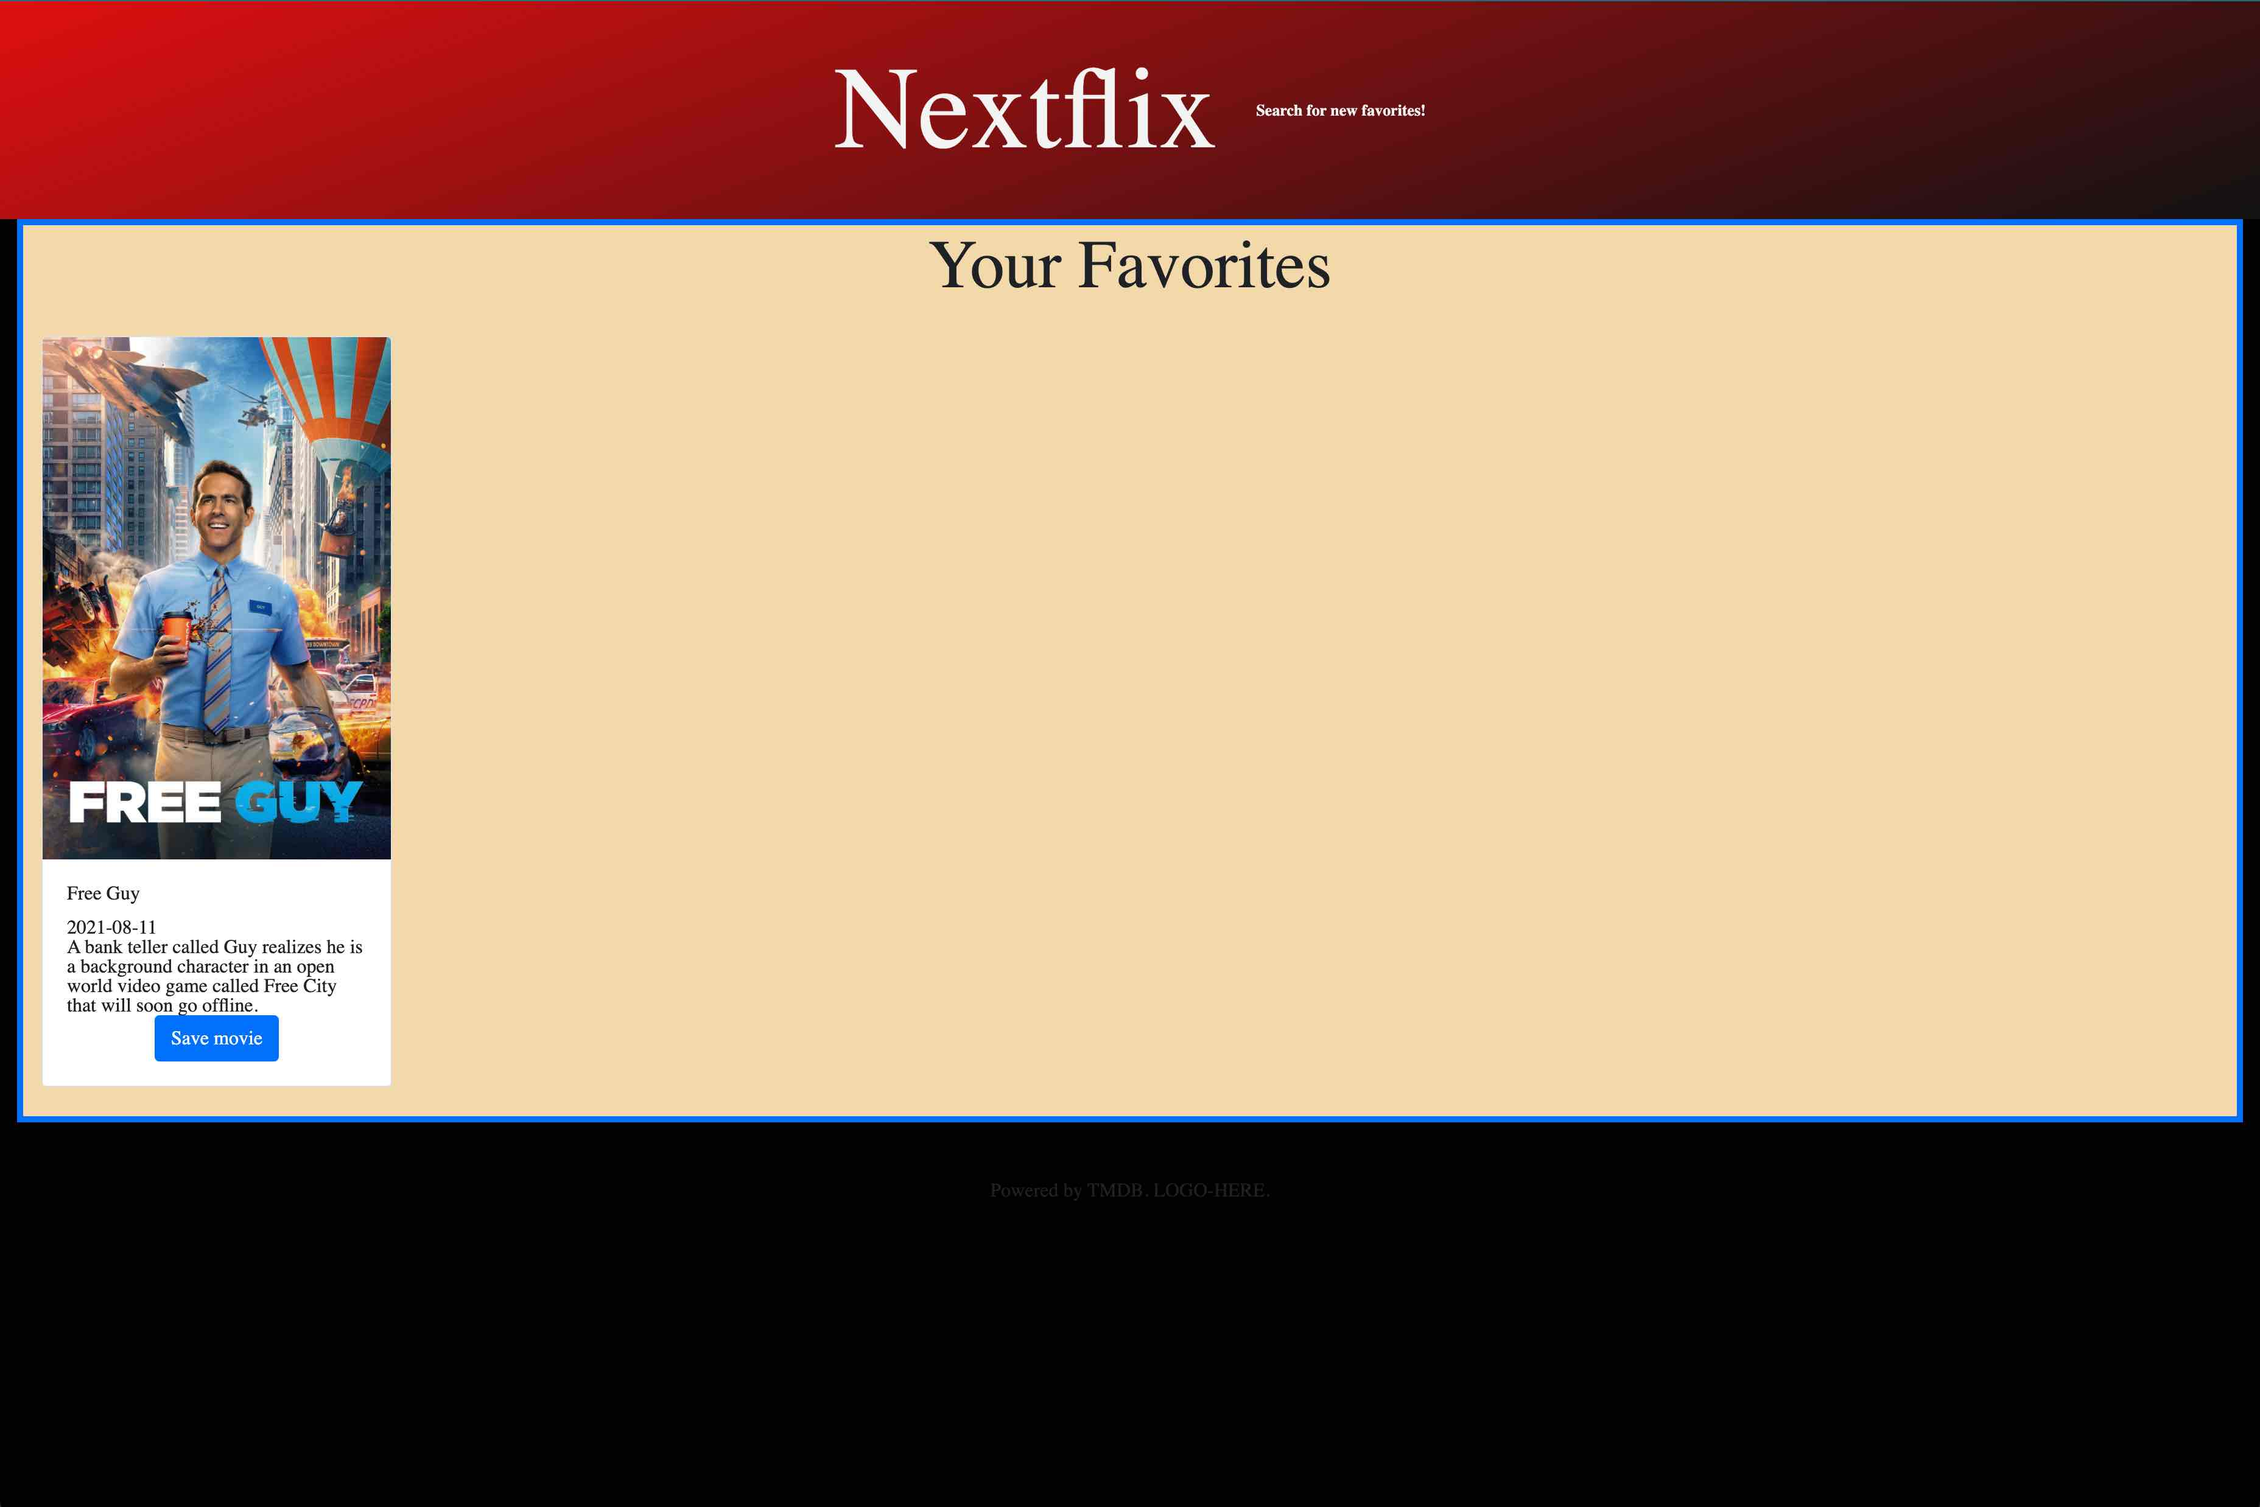
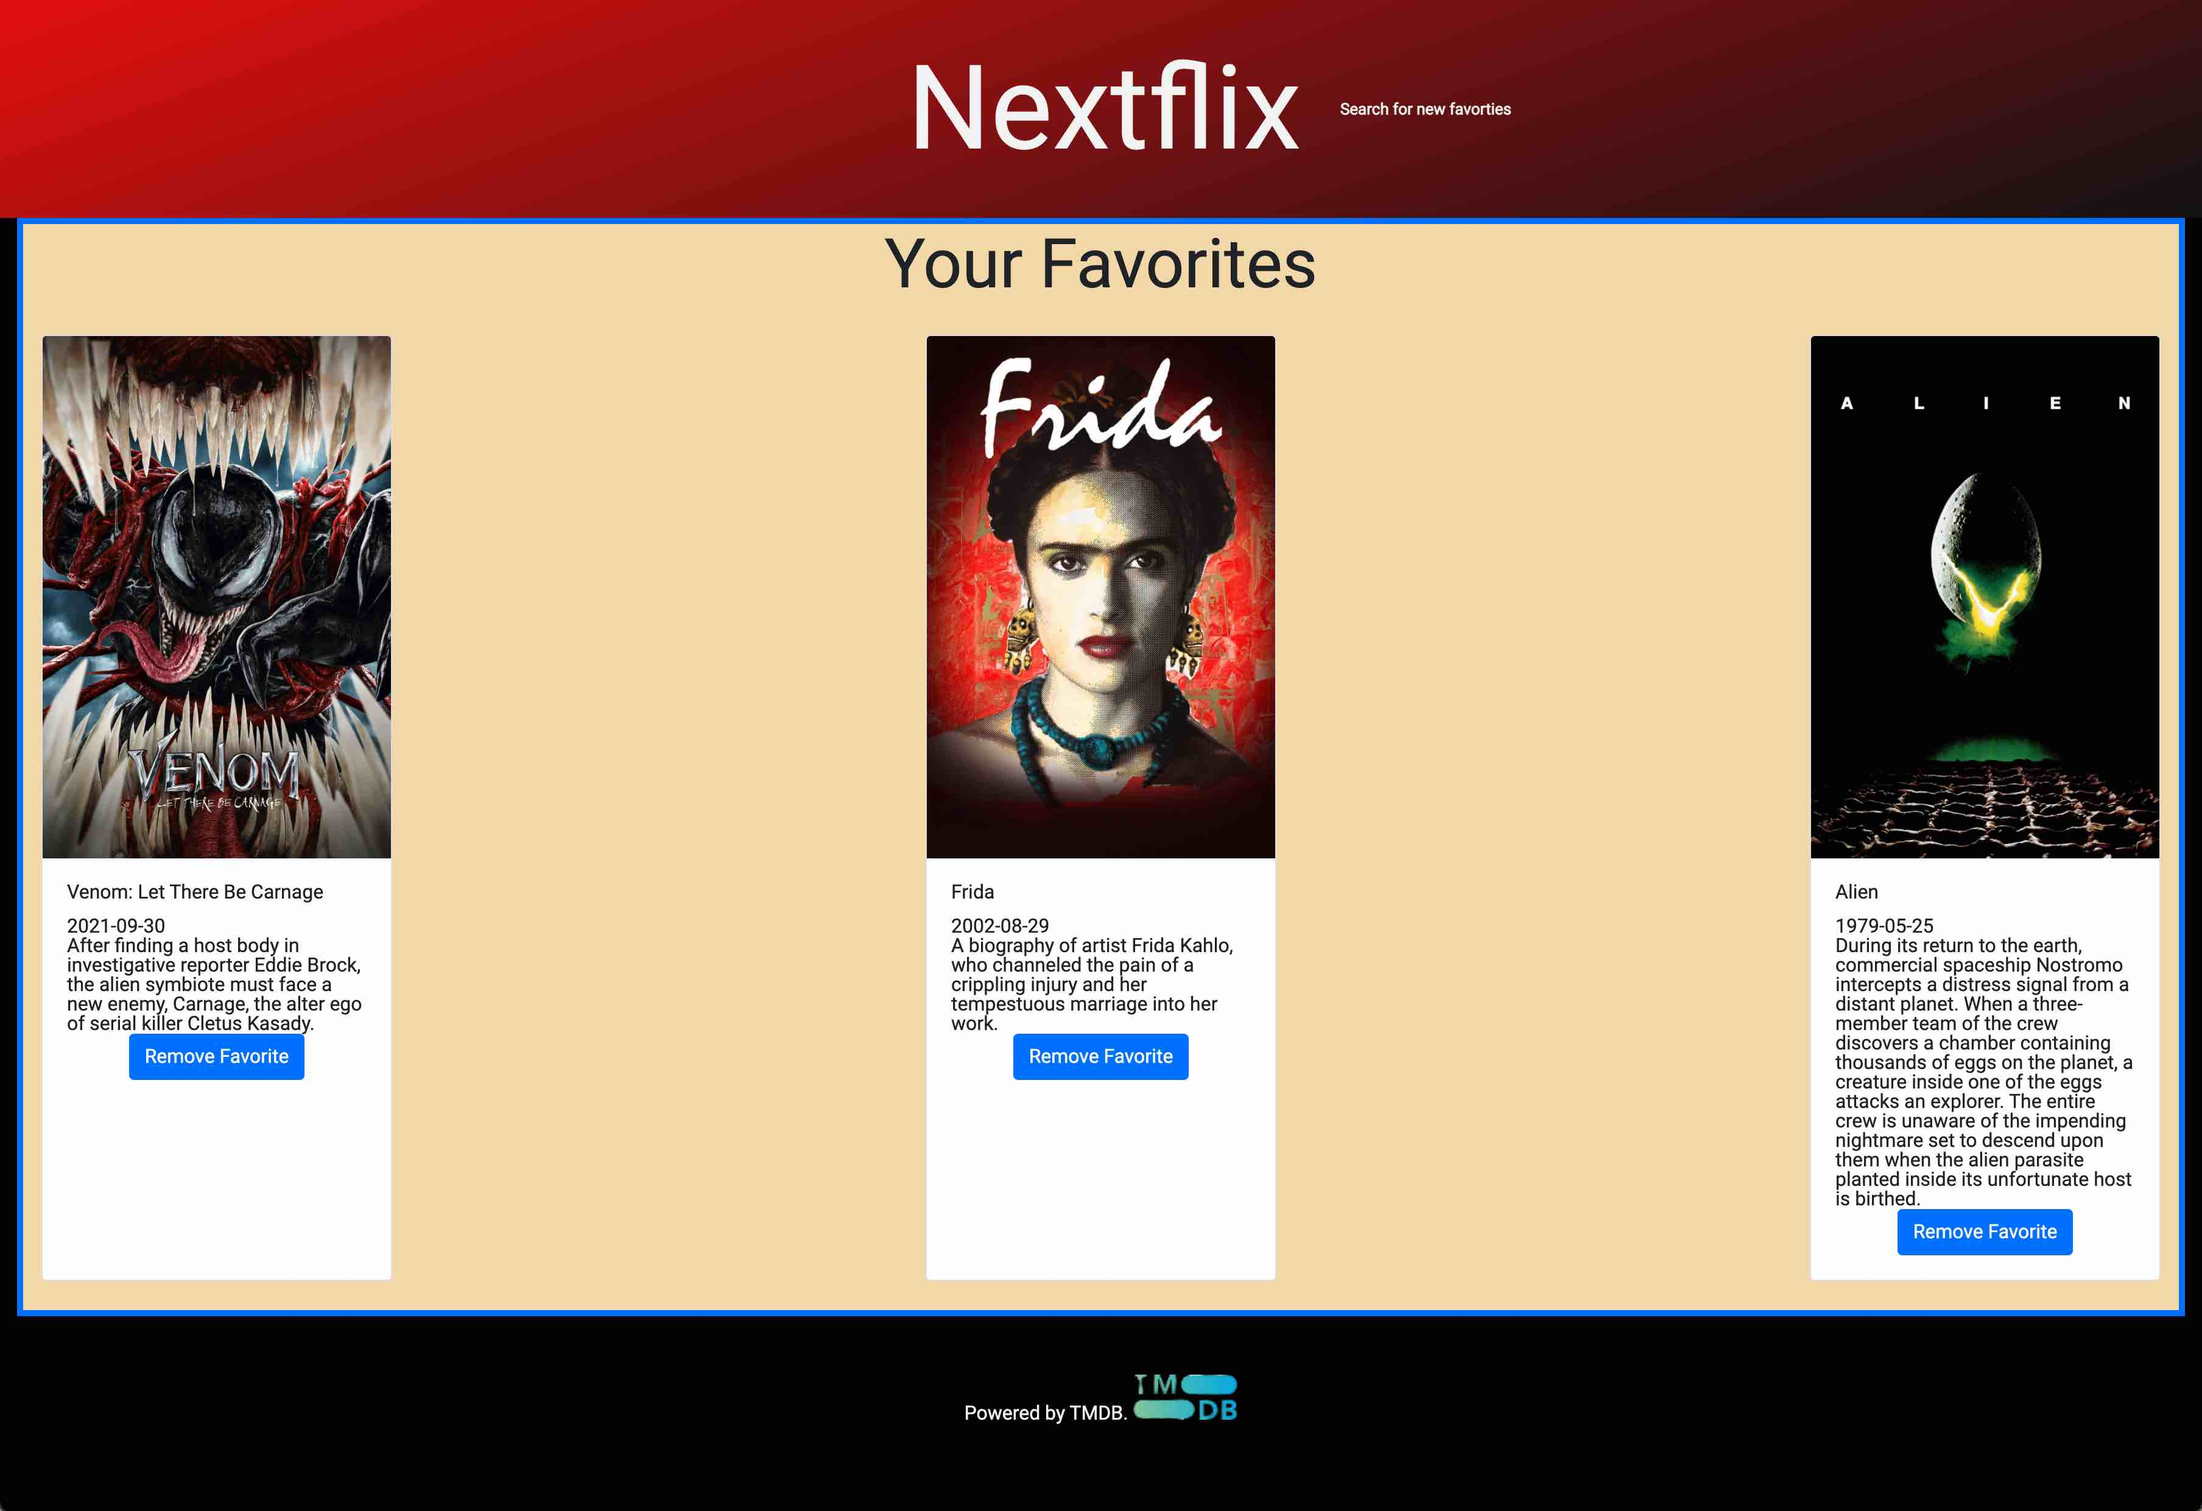
Final MVP push.

diff --git a/index.html b/index.html
@@ -9,6 +9,9 @@
   <link rel="stylesheet" href="https://stackpath.bootstrapcdn.com/bootstrap/4.3.1/css/bootstrap.min.css" />
   <link rel="stylesheet" href="./assets/css/eric-meyer-reset.css" />
   <link rel="stylesheet" href="./assets/css/style.css" />
+  <link rel="preconnect" href="https://fonts.googleapis.com" />
+  <link rel="preconnect" href="https://fonts.gstatic.com" crossorigin />
+  <link href="https://fonts.googleapis.com/css2?family=Roboto&display=swap" rel="stylesheet" />
 </head>
 <body>
   <!-- used bootstrap classes to organize and style the navbar inside the header -->
@@ -21,85 +24,75 @@
   </header>
   <!-- used bootstrap class container-fluid for the whole main section of the page so that styling with bootstrap would be possible -->
   <main class="container-fluid">
-      <!-- used bootstrap classes to center and justify the search bar and search button -->
-      <div class="justify-content-center row mt-5 mb-5 mx-auto">
-        <div>
-          <input id="input-text" type="text" class="form-control" placeholder="Search movies 🍿" />
-        </div>
-        <div>
-          <a href="#" class="btn btn-primary" id="search-button">Search</a>
-        </div>
-         <p class="error-text"></p>
+    <!-- used bootstrap classes to center and justify the search bar and search button -->
+    <div class="justify-content-center row mt-5 mb-5 mx-auto">
+      <div>
+        <input id="input-text" type="text" class="form-control" placeholder="Search movies 🍿" />
       </div>
-      <!-- used bootstap classes to center and justify the title text and the cards below -->
-      <div class="resultsDiv justify-content-between row col-12 mx-auto border-primary">
-
-        <div class="text-center col-12">
-          <p class="lead display-4">New & Upcoming Movies</p>
-        </div>
-        <!-- cards below are styled using bootstrap classes -->
-        <div class="card mt-4 mb-4" style="width: 18rem;">
-          <img src="" class="card-img-top"
-            alt="Movie poster for movie in position 1" />
-          <div class="card-body">
-            <h5 class="card-title"></h5>
-            <p class="card-text release-year"></p>
-            <p class="card-text movie-desc"></p>
-            <p class="movie-id"></p>
-            <div class="text-center">
-              <a href="#" class="btn btn-primary favoriteButton" id="favoriteButton-1">Save to favorites</a>
-            </div>
-          </div>
-        </div>
-
-        <div class="card mt-4 mb-4" style="width: 18rem;">
-          <img src="" class="card-img-top"
-            alt="Movie poster for movie in position 2" />
-          <div class="card-body">
-            <h5 class="card-title"></h5>
-            <p class="card-text release-year"></p>
-            <p class="card-text movie-desc"></p>
-            <p class="movie-id"></p>
-            <div class="text-center">
-              <a href="#" class="btn btn-primary favoriteButton"  id="favoriteButton-2">Save to favorites</a>
-            </div>
-          </div>
-        </div>
-
-        <div class="card mt-4 mb-4" style="width: 18rem;">
-          <img src="" class="card-img-top"
-            alt="Movie poster for movie in position 3" />
-          <div class="card-body">
-            <h5 class="card-title"></h5>
-            <p class="card-text release-year"></p>
-            <p class="card-text movie-desc"></p>
-            <p class="movie-id"></p>  
-            <div class="text-center">
-              <a href="#" class="btn btn-primary favoriteButton"  id="favoriteButton-3">Save to favorites</a>
-            </div>
-          </div>
-        </div>
-
-        <div class="card mt-4 mb-4" style="width: 18rem;">
-          <img src="" class="card-img-top"
-            alt="Movie poster for movie in position 4" />
-          <div class="card-body">
-            <h5 class="card-title"></h5>
-            <p class="card-text release-year"></p>
-            <p class="card-text movie-desc"></p>
-            <p class="movie-id"></p>
-            <div class="text-center">
-              <a href="#" class="btn btn-primary favoriteButton"  id="favoriteButton-4">Save to favorites</a>
-            </div>
-          </div>
-        </div>
-
+      <div>
+        <a href="#" class="btn btn-primary" id="search-button">Search</a>
       </div>
-      <!-- footer is centered and adjusted on the page using bootstrap classes -->
-      <div id="footer-text" class="text-center col-12 mt-5 mb-5">
-        <h4>Powered by TMDB. LOGO-HERE.</h4>
+      <p class="error-text"></p>
+    </div>
+    <!-- used bootstap classes to center and justify the title text and the cards below -->
+    <div class="resultsDiv justify-content-between row col-12 mx-auto border-primary">
+      <div class="text-center col-12">
+        <p class="lead display-4">New & Upcoming Movies</p>
       </div>
-
+      <!-- cards below are styled using bootstrap classes -->
+      <div class="card mt-4 mb-4" style="width: 18rem;">
+        <img src="" class="card-img-top" alt="Movie poster for movie in position 1" />
+        <div class="card-body">
+          <h5 class="card-title mt-3 mb-3"></h5>
+          <p class="card-text release-year mb-3"></p>
+          <p class="card-text movie-desc mb-3"></p>
+          <p class="movie-id"></p>
+          <div class="text-center">
+            <a href="#" class="btn btn-primary favoriteButton" id="favoriteButton-1">Save to favorites</a>
+          </div>
+        </div>
+      </div>
+      <div class="card mt-4 mb-4" style="width: 18rem;">
+        <img src="" class="card-img-top" alt="Movie poster for movie in position 2" />
+        <div class="card-body">
+          <h5 class="card-title mt-3 mb-3"></h5>
+          <p class="card-text release-year mb-3"></p>
+          <p class="card-text movie-desc mb-3"></p>
+          <p class="movie-id"></p>
+          <div class="text-center">
+            <a href="#" class="btn btn-primary favoriteButton" id="favoriteButton-2">Save to favorites</a>
+          </div>
+        </div>
+      </div>
+      <div class="card mt-4 mb-4" style="width: 18rem;">
+        <img src="" class="card-img-top" alt="Movie poster for movie in position 3" />
+        <div class="card-body">
+          <h5 class="card-title mt-3 mb-3"></h5>
+          <p class="card-text release-year mb-3"></p>
+          <p class="card-text movie-desc mb-3"></p>
+          <p class="movie-id"></p>
+          <div class="text-center">
+            <a href="#" class="btn btn-primary favoriteButton" id="favoriteButton-3">Save to favorites</a>
+          </div>
+        </div>
+      </div>
+      <div class="card mt-4 mb-4" style="width: 18rem;">
+        <img src="" class="card-img-top" alt="Movie poster for movie in position 4" />
+        <div class="card-body">
+          <h5 class="card-title mt-3 mb-3"></h5>
+          <p class="card-text release-year mb-3"></p>
+          <p class="card-text movie-desc mb-3"></p>
+          <p class="movie-id"></p>
+          <div class="text-center">
+            <a href="#" class="btn btn-primary favoriteButton" id="favoriteButton-4">Save to favorites</a>
+          </div>
+        </div>
+      </div>
+    </div>
+    <!-- footer is centered and adjusted on the page using bootstrap classes -->
+    <div id="footer-text" class="text-center col-12 mt-5 mb-5">
+      <h4>Powered by TMDB. <img src="./assets/images/tmdb-image.png" alt="The Movie Database Logo."></h4>
+    </div>
   </main>
   <!-- below are the script links to the jQuery library, the anime.js library, and the two script files we created -->
   <script src="https://cdnjs.cloudflare.com/ajax/libs/jquery/3.2.1/jquery.min.js"></script>

diff --git a/favorites.html b/favorites.html
@@ -5,99 +5,38 @@
   <meta http-equiv="X-UA-Compatible" content="IE=edge">
   <meta name="viewport" content="width=device-width, initial-scale=1.0">
   <title>Nextflix: Your Favorites</title>
+  <!-- linked bootstrap, the eric meyer css reset style sheet -- unedited -- and the style.css file -->
   <link rel="stylesheet" href="https://stackpath.bootstrapcdn.com/bootstrap/4.3.1/css/bootstrap.min.css" />
   <link rel="stylesheet" href="./assets/css/eric-meyer-reset.css" />
-  <link rel= "stylesheet" href="./assets/css/favorites.css"/>
+  <link rel= "stylesheet" href="./assets/css/favorites.css" />
+  <link rel="preconnect" href="https://fonts.googleapis.com" />
+  <link rel="preconnect" href="https://fonts.gstatic.com" crossorigin />
+  <link href="https://fonts.googleapis.com/css2?family=Roboto&display=swap" rel="stylesheet" />
 </head>
 <body>
-
+    <!-- used bootstrap classes to organize and style the navbar inside the header -->
   <header>
-      <nav class="navbar justify-content-center py-2 py-lg-4">
-       
-        <h1 id="here-home"><a class="navbar display-1 text-decoration-none" href="./index.html">Nextflix</a></h1>
-        <h2><a class="navbar justify-content-end text-decoration-none" href="./index.html">Search for new favorties</a></h2>
-      </nav>
+    <nav class="navbar justify-content-center py-2 py-lg-4">
+      <h1 id="here-home"><a class="navbar display-1 text-decoration-none" href="./index.html">Nextflix</a></h1>
+      <h2><a class="navbar justify-content-end text-decoration-none" href="./index.html">Search for new favorties</a></h2>
+    </nav>
   </header>
-
-
+  <!-- the below container is dynamically filled with cards that are created from a template literal the script2.js file -->
   <main class="container-fluid">
-    <!-- <div class="justify-content-center row mt-5 mb-5 mx-auto">
-       </div> -->
-    
-       <div class="favoritesDiv justify-content-between row col-12 mx-auto border-primary" id="favoritesDiv">
-
-        <div class="text-center col-12">
-          <p class="lead display-4">Your Favorites</p>
-        </div>
-
-
-      <!-- <div class="card mt-4 mb-4" style="width: 18rem;">
-        <img src="./assets/images/fight-club-placeholder.jpg" class="card-img-top"
-          alt="Fight Club movie poster used as a placeholder" />
-        <div class="card-body">
-          <h5 class="card-title">Card title</h5>
-          <p class="card-text release-year">2017</p>
-          <p class="card-text movie-desc">Some quick example text to build on the card title and make up the bulk of the card's
-            content.</p>
-          <div class="text-center">
-            <a href="#" class="btn btn-primary favoriteButton" id="favoriteButton-1">Remove Movie</a>
-          </div>
-        </div>
+    <div class="favoritesDiv justify-content-between row col-12 mx-auto border-primary" id="favoritesDiv">
+      <div class="text-center col-12">
+        <p class="lead display-4">Your Favorites</p>
       </div>
-
-        <div class="card mt-4 mb-4" style="width: 18rem;">
-          <img src="./assets/images/fight-club-placeholder.jpg" class="card-img-top"
-            alt="Fight Club movie poster used as a placeholder" />
-          <div class="card-body">
-            <h5 class="card-title">Card title</h5>
-            <p class="card-text release-year">2017</p>
-            <p class="card-text movie-desc">Some quick example text to build on the card title and make up the bulk of the card's
-              content.</p>
-            <div class="text-center">
-              <a href="#" class="btn btn-primary favoriteButton" id="favoriteButton-1">Remove Movie</a>
-            </div>
-          </div>
-        </div>
-
-          <div class="card mt-4 mb-4" style="width: 18rem;">
-            <img src="./assets/images/fight-club-placeholder.jpg" class="card-img-top"
-              alt="Fight Club movie poster used as a placeholder" />
-            <div class="card-body">
-              <h5 class="card-title">Card title</h5>
-              <p class="card-text release-year">2017</p>
-              <p class="card-text movie-desc">Some quick example text to build on the card title and make up the bulk of the card's
-                content.</p>
-              <div class="text-center">
-                <a href="#" class="btn btn-primary favoriteButton" id="favoriteButton-1">Remove Movie</a>
-              </div>
-            </div>
-          </div>
-
-            <div class="card mt-4 mb-4" style="width: 18rem;">
-              <img src="./assets/images/fight-club-placeholder.jpg" class="card-img-top"
-                alt="Fight Club movie poster used as a placeholder" />
-              <div class="card-body">
-                <h5 class="card-title">Card title</h5>
-                <p class="card-text release-year">2017</p>
-                <p class="card-text movie-desc">Some quick example text to build on the card title and make up the bulk of the card's
-                  content.</p>
-                <div class="text-center">
-                  <a href="#" class="btn btn-primary favoriteButton" id="favoriteButton-1">Remove Movie</a>
-                </div>
-              </div>
-            </div> -->
-          </div>
-        
-      
-            <div id="footer-text" class="text-center col-12 mt-5 mb-5">
-              <h4>Powered by TMDB. LOGO-HERE.</h4>
-            </div>
-          
-   </main>
-       
-   <script src="https://cdnjs.cloudflare.com/ajax/libs/jquery/3.2.1/jquery.min.js"></script>
+    </div>
+    <div id="footer-text" class="text-center col-12 mt-5 mb-5">
+      <h4>Powered by TMDB. <img src="./assets/images/tmdb-image.png" alt="The Movie Database Logo."></h4>
+    </div>
+  </main>
+  <!-- below are the script links to the jQuery library, the anime.js library, and the two script files we created --> 
+  <script src="https://cdnjs.cloudflare.com/ajax/libs/jquery/3.2.1/jquery.min.js"></script>
   <script src="./assets/js/script2.js"></script>
   <script src="./assets/libraries/anime-master/lib/anime.min.js"></script>
+  <!-- below is the script element for the anime.js animation on the h1 tag -->
   <script>
     anime({
       targets: 'h1#here-home',

diff --git a/assets/css/style.css b/assets/css/style.css
@@ -1,5 +1,7 @@
+/* most of the styling was handled in the html using bootstrap */
 body {
   background-color: black;
+  font-family: 'Roboto', sans-serif;
 }
 
 nav {
@@ -23,6 +25,11 @@ nav a {
 
 .card-header {
   color: whitesmoke;
+}
+
+.card-title {
+  font-size: large;
+  font-weight: bold;
 }
 
 .resultsDiv {

diff --git a/assets/css/favorites.css b/assets/css/favorites.css
@@ -1,6 +1,7 @@
-
+/* most of the styling was handled in the html using bootstrap */
 body {
   background-color: black;
+  font-family: 'Roboto', sans-serif;
 }
 
 h1 {
@@ -41,4 +42,8 @@ nav a {
 
 .movie-id {
   display: none;
+}
+
+#footer-text {
+  color: whitesmoke;
 }
